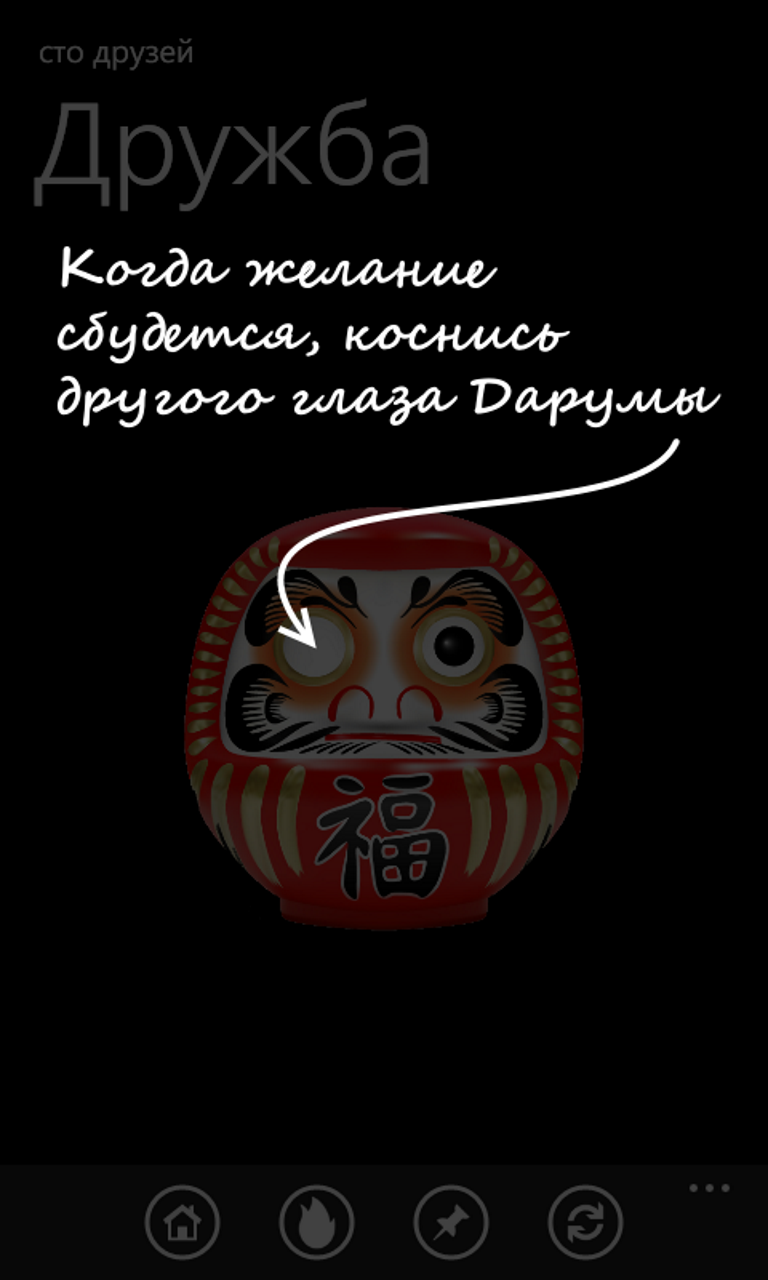
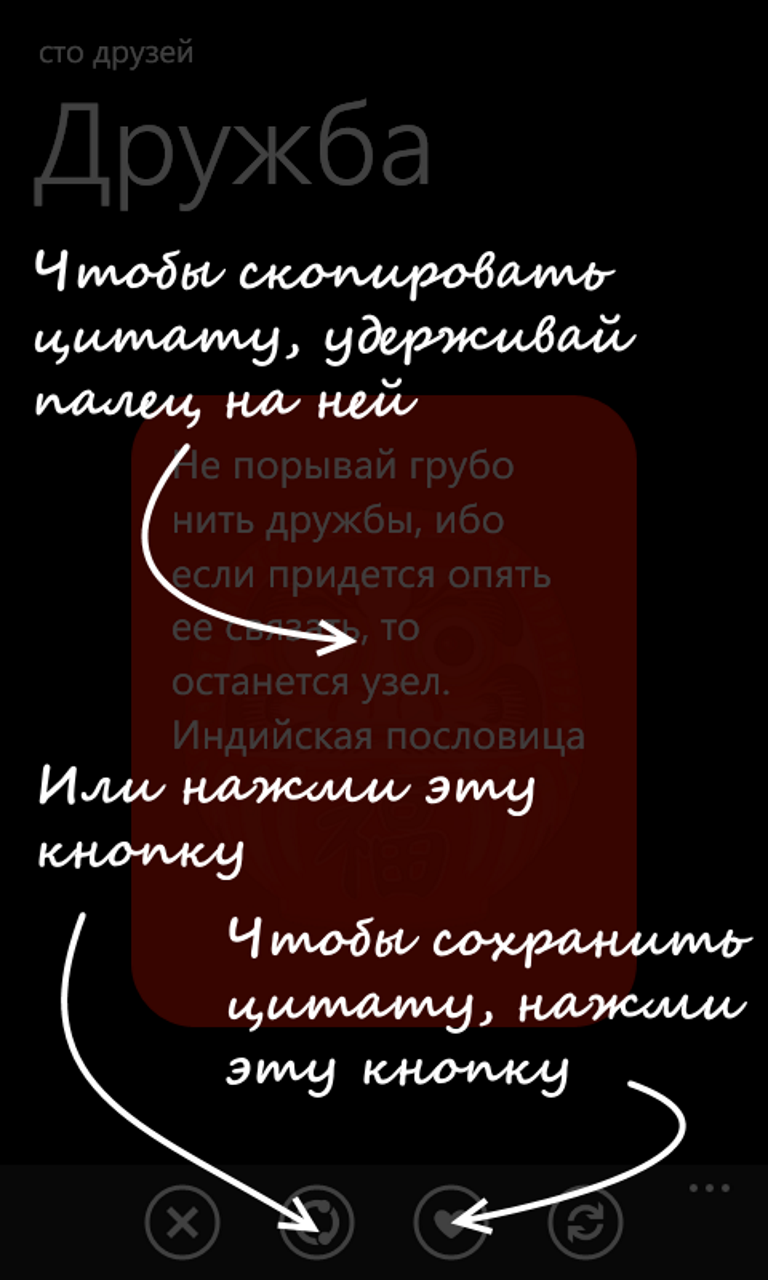
add new 4-rd tutor step

diff --git a/Daruma/Views/InfoDarumaView.xaml b/Daruma/Views/InfoDarumaView.xaml
@@ -6,6 +6,7 @@
     xmlns:mc="http://schemas.openxmlformats.org/markup-compatibility/2006"
     xmlns:wpe="clr-namespace:WPExtensions;assembly=WPExtensions"
     xmlns:views="clr-namespace:Daruma.Views"
+    xmlns:toolkit="clr-namespace:Microsoft.Phone.Controls;assembly=Microsoft.Phone.Controls.Toolkit"
     FontFamily="{StaticResource PhoneFontFamilyNormal}"
     FontSize="{StaticResource PhoneFontSizeNormal}"
     Foreground="{StaticResource PhoneForegroundBrush}"
@@ -34,6 +35,9 @@
         </wpe:AdvancedApplicationBar>
 
         <Grid x:Name="LayoutRoot" Tap="Gird_OnTap">
+            <toolkit:GestureService.GestureListener>
+                <toolkit:GestureListener Flick="GestureListener_OnFlick" Hold="GestureListener_OnHold" />
+            </toolkit:GestureService.GestureListener>
             <Grid.Background>
                 <ImageBrush 
                 x:Name="BackgroundImage"

diff --git a/Daruma/Views/InfoDarumaView.xaml.cs b/Daruma/Views/InfoDarumaView.xaml.cs
@@ -1,10 +1,11 @@
 using System;
 using System.Collections.Generic;
 using System.Windows;
-using System.Windows.Input;
 using System.Windows.Media.Imaging;
 using System.Windows.Navigation;
 using DarumaDAL.WP.Infrastructure;
+using Microsoft.Phone.Controls;
+using GestureEventArgs = System.Windows.Input.GestureEventArgs;
 
 namespace Daruma.Views
 {
@@ -19,9 +20,10 @@ namespace Daruma.Views
         
             _tutorStepList = new List<BitmapImage>
             {
-                new BitmapImage(new Uri(TutorStepUrlRouter.TutorStep1ImageUrl, UriKind.Relative)),
-                new BitmapImage(new Uri(TutorStepUrlRouter.TutorStep2ImageUrl, UriKind.Relative)),
-                new BitmapImage(new Uri(TutorStepUrlRouter.TutorStep3ImageUrl, UriKind.Relative))
+                new BitmapImage(new Uri(TutorStepUrlRouter.TutorStep1ImageUrl(1), UriKind.Relative)),
+                new BitmapImage(new Uri(TutorStepUrlRouter.TutorStep1ImageUrl(2), UriKind.Relative)),
+                new BitmapImage(new Uri(TutorStepUrlRouter.TutorStep1ImageUrl(3), UriKind.Relative)),
+                new BitmapImage(new Uri(TutorStepUrlRouter.TutorStep1ImageUrl(4), UriKind.Relative))
             };
         }
 
@@ -86,7 +88,25 @@ namespace Daruma.Views
 
         private void Gird_OnTap(object sender, GestureEventArgs e)
         {
-            Forward();
+            IfNotFirstSetp();
+        }
+
+        private void GestureListener_OnFlick(object sender, FlickGestureEventArgs e)
+        {
+            IfNotFirstSetp();
+        }
+
+        private void GestureListener_OnHold(object sender, Microsoft.Phone.Controls.GestureEventArgs e)
+        {
+            IfNotFirstSetp();
+        }
+
+        private void IfNotFirstSetp()
+        {
+            if (_currentTutorStep >= 0)
+            {
+                Forward();
+            }
         }
     }
 }

diff --git a/DarumaDAL.WP/Infrastructure/Routers.cs b/DarumaDAL.WP/Infrastructure/Routers.cs
@@ -76,19 +76,9 @@ namespace DarumaDAL.WP.Infrastructure
     {
         private const string RouteToBackground = "/Assets/Images/Tutor";
 
-        public static string TutorStep1ImageUrl
+        public static string TutorStep1ImageUrl(int step)
         {
-            get { return string.Format("{0}/{1}", RouteToBackground, "TutorStep1.png"); }
-        }
-
-        public static string TutorStep2ImageUrl
-        {
-            get { return string.Format("{0}/{1}", RouteToBackground, "TutorStep2.png"); }
-        }
-
-        public static string TutorStep3ImageUrl
-        {
-            get { return string.Format("{0}/{1}", RouteToBackground, "TutorStep3.png"); }
+            return string.Format("{0}/{1}", RouteToBackground, string.Format("TutorStep{0}.png", step));
         }
     }
 
